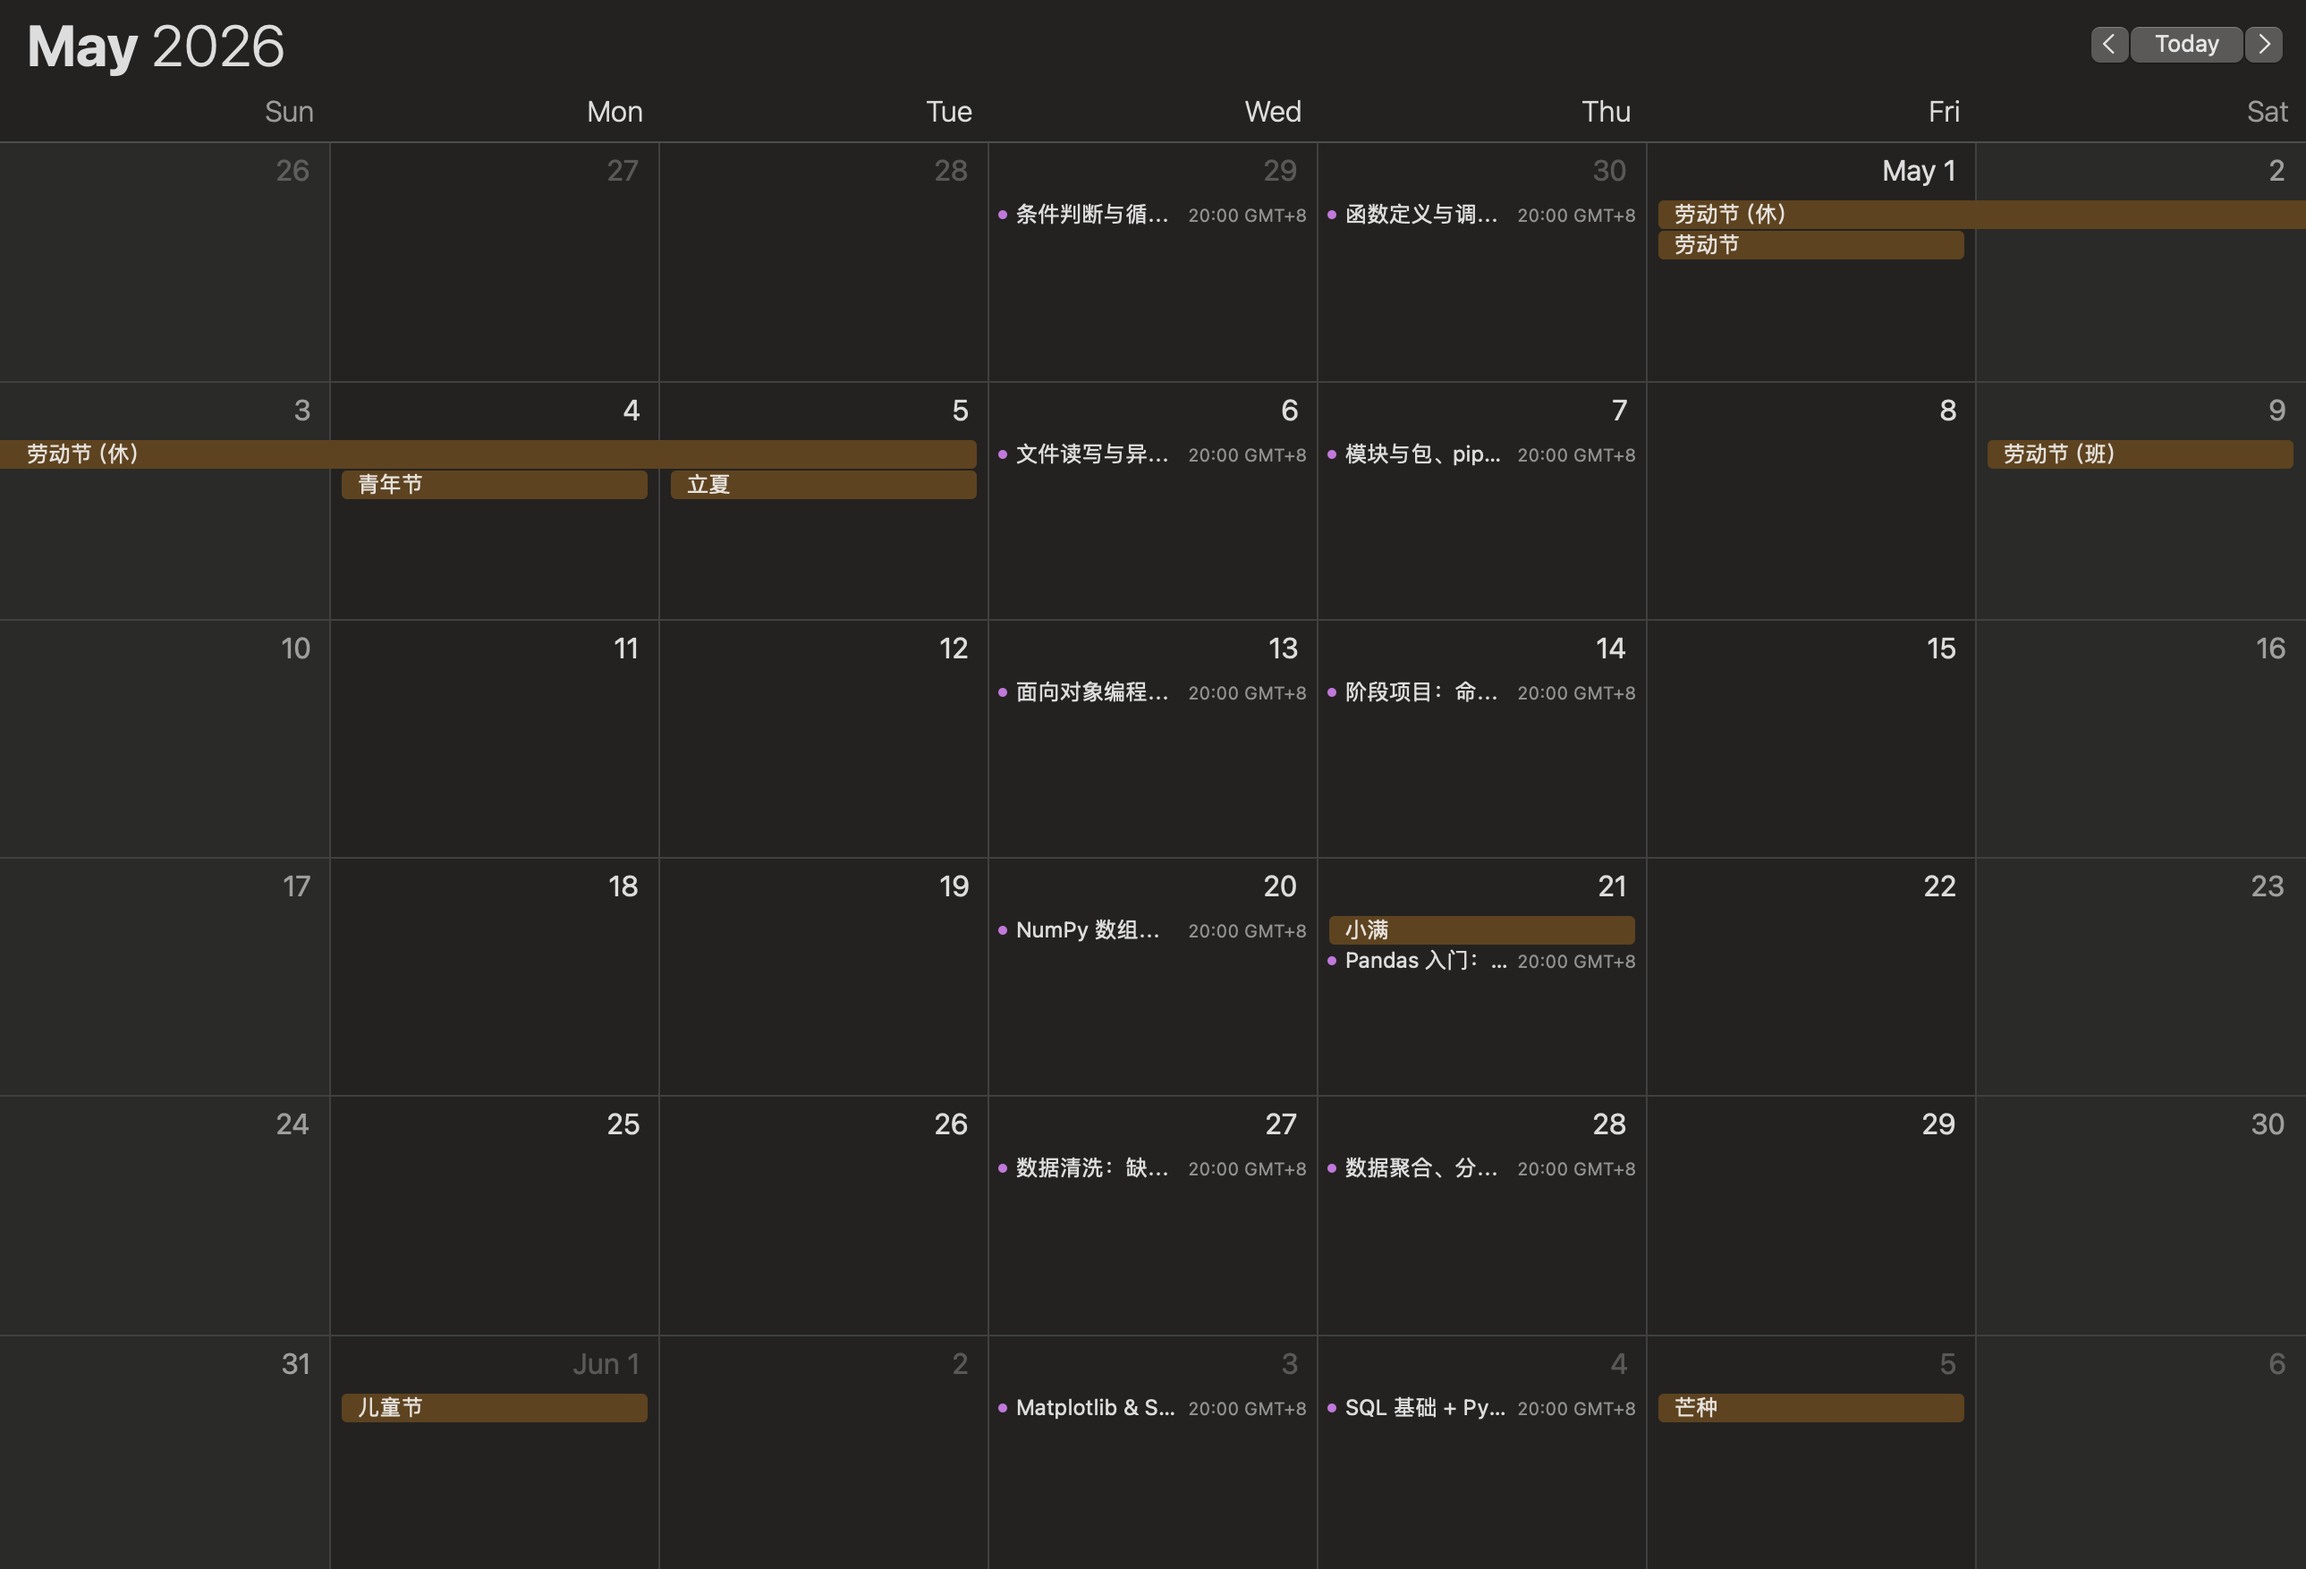
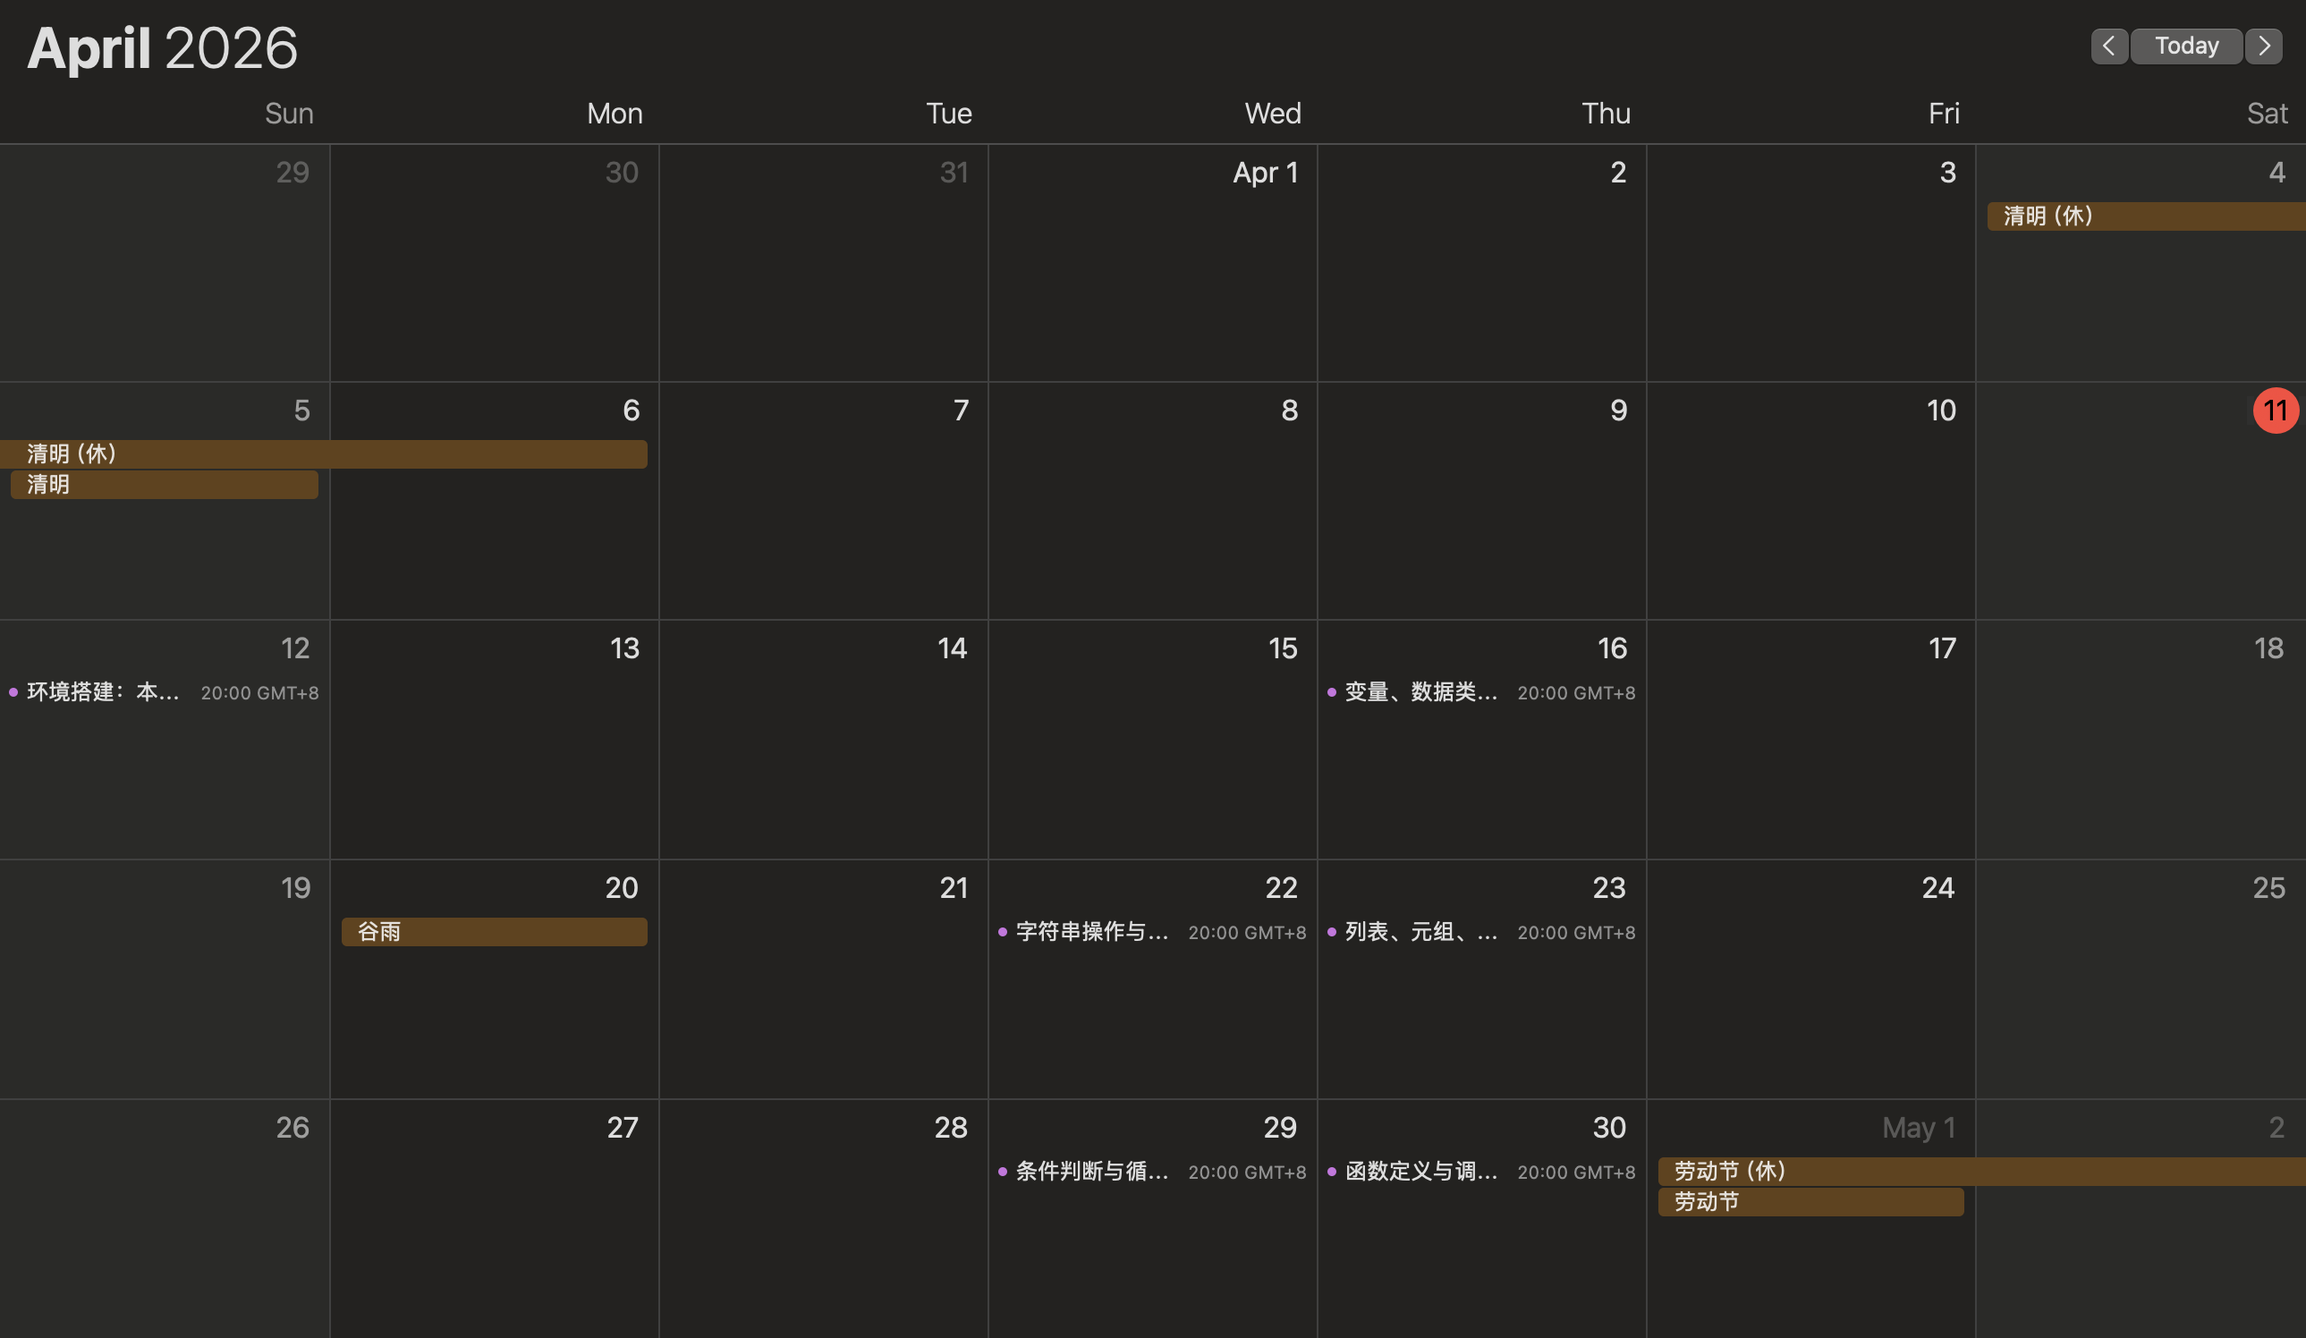
GITBOOK-7: No subject

diff --git a/SUMMARY.md b/SUMMARY.md
@@ -3,4 +3,4 @@
 * [Python编程与人工智能](README.md)
 * [Python基础（从零起飞） - 环境搭建：本地 + 云端双方案](python-ji-chu-cong-ling-qi-fei-huan-jing-da-jian-ben-di-+-yun-duan-shuang-fang-an.md)
 * [Python基础（从零起飞）- 变量、数据类型与基础运算](python-ji-chu-cong-ling-qi-fei-bian-liang-shu-ju-lei-xing-yu-ji-chu-yun-suan.md)
-* [Syllabus](syllabus.md)
+* [2026年Python与人工智能教学课程](2026-nian-python-yu-ren-gong-zhi-neng-jiao-xue-ke-cheng.md)

diff --git a/2026-nian-python-yu-ren-gong-zhi-neng-jiao-xue-ke-cheng.md b/2026-nian-python-yu-ren-gong-zhi-neng-jiao-xue-ke-cheng.md
@@ -1,0 +1,22 @@
+# 2026年Python与人工智能教学课程
+
+2026年April课程安排：
+
+<figure><img src=".gitbook/assets/image (1).png" alt=""><figcaption></figcaption></figure>
+
+
+
+
+
+2026年May课程安排：
+
+<figure><img src=".gitbook/assets/image (1) (1).png" alt=""><figcaption></figcaption></figure>
+
+
+
+2026年June课程安排：
+
+<figure><img src=".gitbook/assets/image.png" alt=""><figcaption></figcaption></figure>
+
+
+
